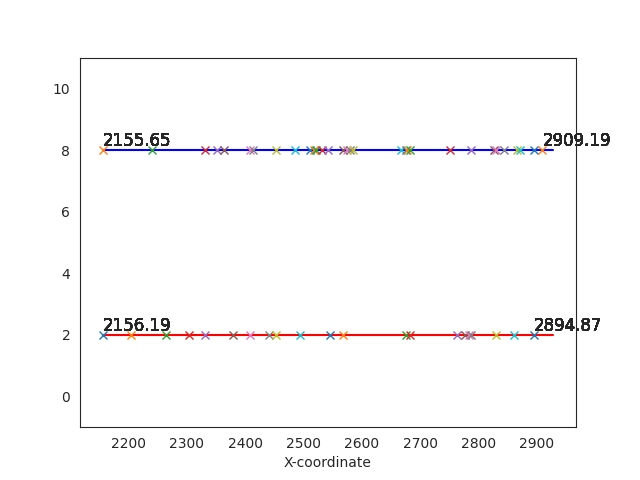
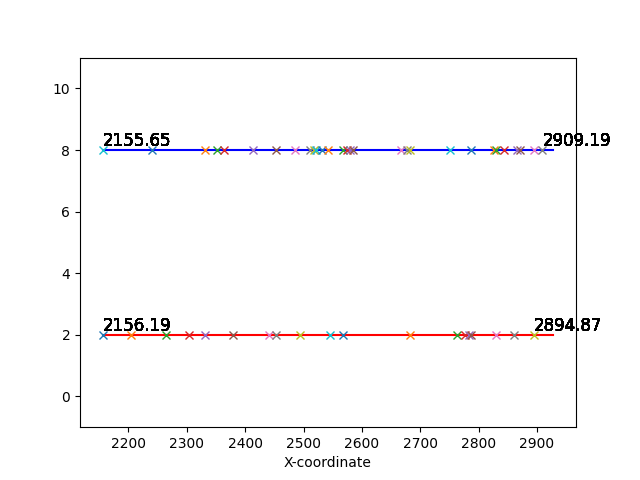
Changes to gmm sampling and log prob calculation

diff --git a/ppo/models.py b/ppo/models.py
@@ -485,7 +485,7 @@ class GAT_v2_ActorCritic(nn.Module):
             gmms_batch.append(gmm)
         return gmms_batch, num_proposals_probs_batch
     
-    def _sample_gmm(self, gmm_single, num_proposals, naive_stochastic = False, training = True, device = None):
+    def _sample_gmm(self, gmm_single, num_proposals, naive_stochastic = False, training=True, device = None):
         """
 
         Sampling from GMM has several issues of discussion.
@@ -500,7 +500,7 @@ class GAT_v2_ActorCritic(nn.Module):
             - Discretize: Divide the GMM into 20 x 20 grid.
             - Evaluate: Calculate the probability at each grid cell
             - Find modes: Find the number of modes in the GMM (cells in which probabilities are lower in all 4 directions)
-            - Calculate num_sampled = min(num_proposals, number of modes)
+            - TODO: Calculate num_sampled = Either num_samples that collapse into nearby modes within a threshold or min(num_proposals, number of modes)
             - Add constraints: If there are two samples with same location, instead add their width and make a single sample.
             - Sample: Sample num_sampled cells.
 
@@ -582,25 +582,10 @@ class GAT_v2_ActorCritic(nn.Module):
             
             sampled_locations = loc_centers[selected_loc_indices]
             sampled_thicknesses = thick_centers[selected_thick_indices]
-            
-            actual_samples = torch.stack([sampled_locations, sampled_thicknesses], dim=-1) # Shape: (num_sampled, 2)
-
-            # 7. Pad if necessary to ensure output shape is (num_proposals, 2)
-            if num_sampled < num_proposals:
-                padding_needed = num_proposals - num_sampled
-                # Use -1.0 for padding, consistent with initialization in `act`
-                padding_tensor = torch.full((padding_needed, 2), -1.0, dtype=actual_samples.dtype, device=device) 
-                final_samples = torch.cat([actual_samples, padding_tensor], dim=0)
-            else:
-                final_samples = actual_samples
-            
-            # Ensure the final output shape is correct
-            assert final_samples.shape == (num_proposals, 2), f"Output shape mismatch: expected ({num_proposals}, 2), got {final_samples.shape}"
-
-            return final_samples
+            return torch.stack([sampled_locations, sampled_thicknesses], dim=-1) # Shape: (num_sampled, 2)
 
 
-    def act(self, states_batch, iteration, clamp_min, clamp_max, device, training = True, visualize=False):
+    def act(self, states_batch, iteration, clamp_min, clamp_max, device, training=True, visualize=False):
         """
         Sample actions from the GMM (propose upto max_proposals number of crosswalks).
         Policy gradient methods require the log probabilities of the actions to be returned as well.
@@ -629,16 +614,20 @@ class GAT_v2_ActorCritic(nn.Module):
 
         batch_size = states_batch.num_graphs 
         # Initialize output tensors with -1 so that its easier to infer actual proposals in critic.
-        padded_proposals = torch.full((batch_size, self.max_proposals, 2), -1.0, dtype=torch.float32, device=device) 
+        padded_proposals = torch.full((batch_size, self.max_proposals, 2), -1.0, dtype=torch.float32, device=device)
         log_probs = torch.zeros(batch_size, device=device)
         
         for b in range(batch_size):
             # Sample proposals for this batch element
-            samples = self._sample_gmm(gmm_batch[b], num_proposals[b].item(), naive_stochastic = True, training = training, device = device)
+            samples = self._sample_gmm(gmm_batch[b], 
+                                       num_proposals[b].item(), 
+                                       naive_stochastic = True, 
+                                       training = training, 
+                                       device = device)
 
             locations, thicknesses = samples.split(1, dim=-1)
-            # print(f"\nBefore clamping: Locations: {locations}, Thicknesses: {thicknesses}")
-        
+            print(f"\nBefore clamping: Locations: {locations}, Thicknesses: {thicknesses}")
+            
             # Apply a noisy clamp individually to prevent exact overlap at same locations.
             # Although means are constrained to [0,1], log_stds are not.
             # We should be less dependent on clamping here and make sure the GMM itself lies in the desired range.
@@ -651,8 +640,7 @@ class GAT_v2_ActorCritic(nn.Module):
             # locations = torch.clamp(locations, clamp_min, clamp_max)  
             
             thicknesses = torch.clamp(thicknesses, clamp_min, clamp_max) 
-
-            # print(f"\nAfter clamping: Locations: {locations}, Thicknesses: {thicknesses}")
+            print(f"\nAfter clamping: Locations: {locations}, Thicknesses: {thicknesses}")
  
             # Recombine the samples
             samples = torch.cat([locations, thicknesses], dim=-1)
@@ -664,13 +652,14 @@ class GAT_v2_ActorCritic(nn.Module):
 
             # Store in output tensor
             num_returned_samples = samples.shape[0] # Number of samples actually returned by _sample_gmm
-            padded_proposals[b, :num_returned_samples, 0] = locations.squeeze(-1) # Assign only num_returned_samples, ensure squeeze removes last dim if size 1
-            padded_proposals[b, :num_returned_samples, 1] = thicknesses.squeeze(-1) # Assign only num_returned_samples, ensure squeeze removes last dim if size 1
-            
+            padded_proposals[b, :num_returned_samples, 0] = locations.squeeze(-1) # Assign only num_returned_samples
+            padded_proposals[b, :num_returned_samples, 1] = thicknesses.squeeze(-1) # Assign only num_returned_samples
+        
             # Compute log probabilities for this batch element using the actually returned samples
             # SUM operation is correct for joint log prob of thickness and location.
-            log_probs[b] = gmm_batch[b].log_prob(samples).sum() 
+            log_probs[b] = gmm_batch[b].log_prob(samples).sum()
 
+        print(f"\nPadded_proposals: {padded_proposals}")
         return padded_proposals, num_proposals, log_probs
     
     def evaluate(self, states_batch, actions_batch, device = None):
@@ -795,8 +784,9 @@ class GAT_v2_ActorCritic(nn.Module):
         ax.tick_params(axis='both', which='major', labelsize=fs-2)
         
         # Set fixed z-axis limits
-        ax.set_zlim(0, 1.0)
-        ax.set_zticks(np.linspace(0, 1.0, 5))
+        z_max = 3.0
+        ax.set_zlim(0, z_max)
+        ax.set_zticks(np.linspace(0, z_max, 6))
         
         plt.tight_layout()
         # plt.show()

diff --git a/main.py b/main.py
@@ -118,7 +118,7 @@ def train(train_config, is_sweep=False, sweep_config=None):
                                                                                         design_args['clamp_min'], 
                                                                                         design_args['clamp_max'], 
                                                                                         device,
-                                                                                        training=False,
+                                                                                        training=True,
                                                                                         visualize=True) 
         
         # Since the higher agent internally takes a step where a number of parallel lower agents take their own steps, 

diff --git a/config.py b/config.py
@@ -54,7 +54,7 @@ def get_config():
         "max_proposals": 10,  # Maximum number of proposals to consider for higher-level agent
         "save_graph_images": True, # Save graph image every iteration.
         "save_gmm_plots": True, # Save GMM visualization every iteration.
-        "num_mixtures": 4,  # Number of mixture components in GMM
+        "num_mixtures": 8,  # Number of mixture components in GMM. Having more is fine (they will collapse into each other). Having less is may be a problem.
         'initial_heads': 8, # Number of attention heads in first GATv2 layer
         'second_heads': 1, # Number of attention heads in second GATv2 layer
         'edge_dim': 2, # Number of features per edge 

diff --git a/sweep.py b/sweep.py
@@ -86,9 +86,6 @@ class HyperParameterTuner:
                 'higher_activation': {
                     'values': ["tanh", "relu"]
                 },
-                'num_mixtures': { 
-                    'values': [4, 6]
-                },
                 'initial_heads': { 
                     'values': [4, 8]
                 },
